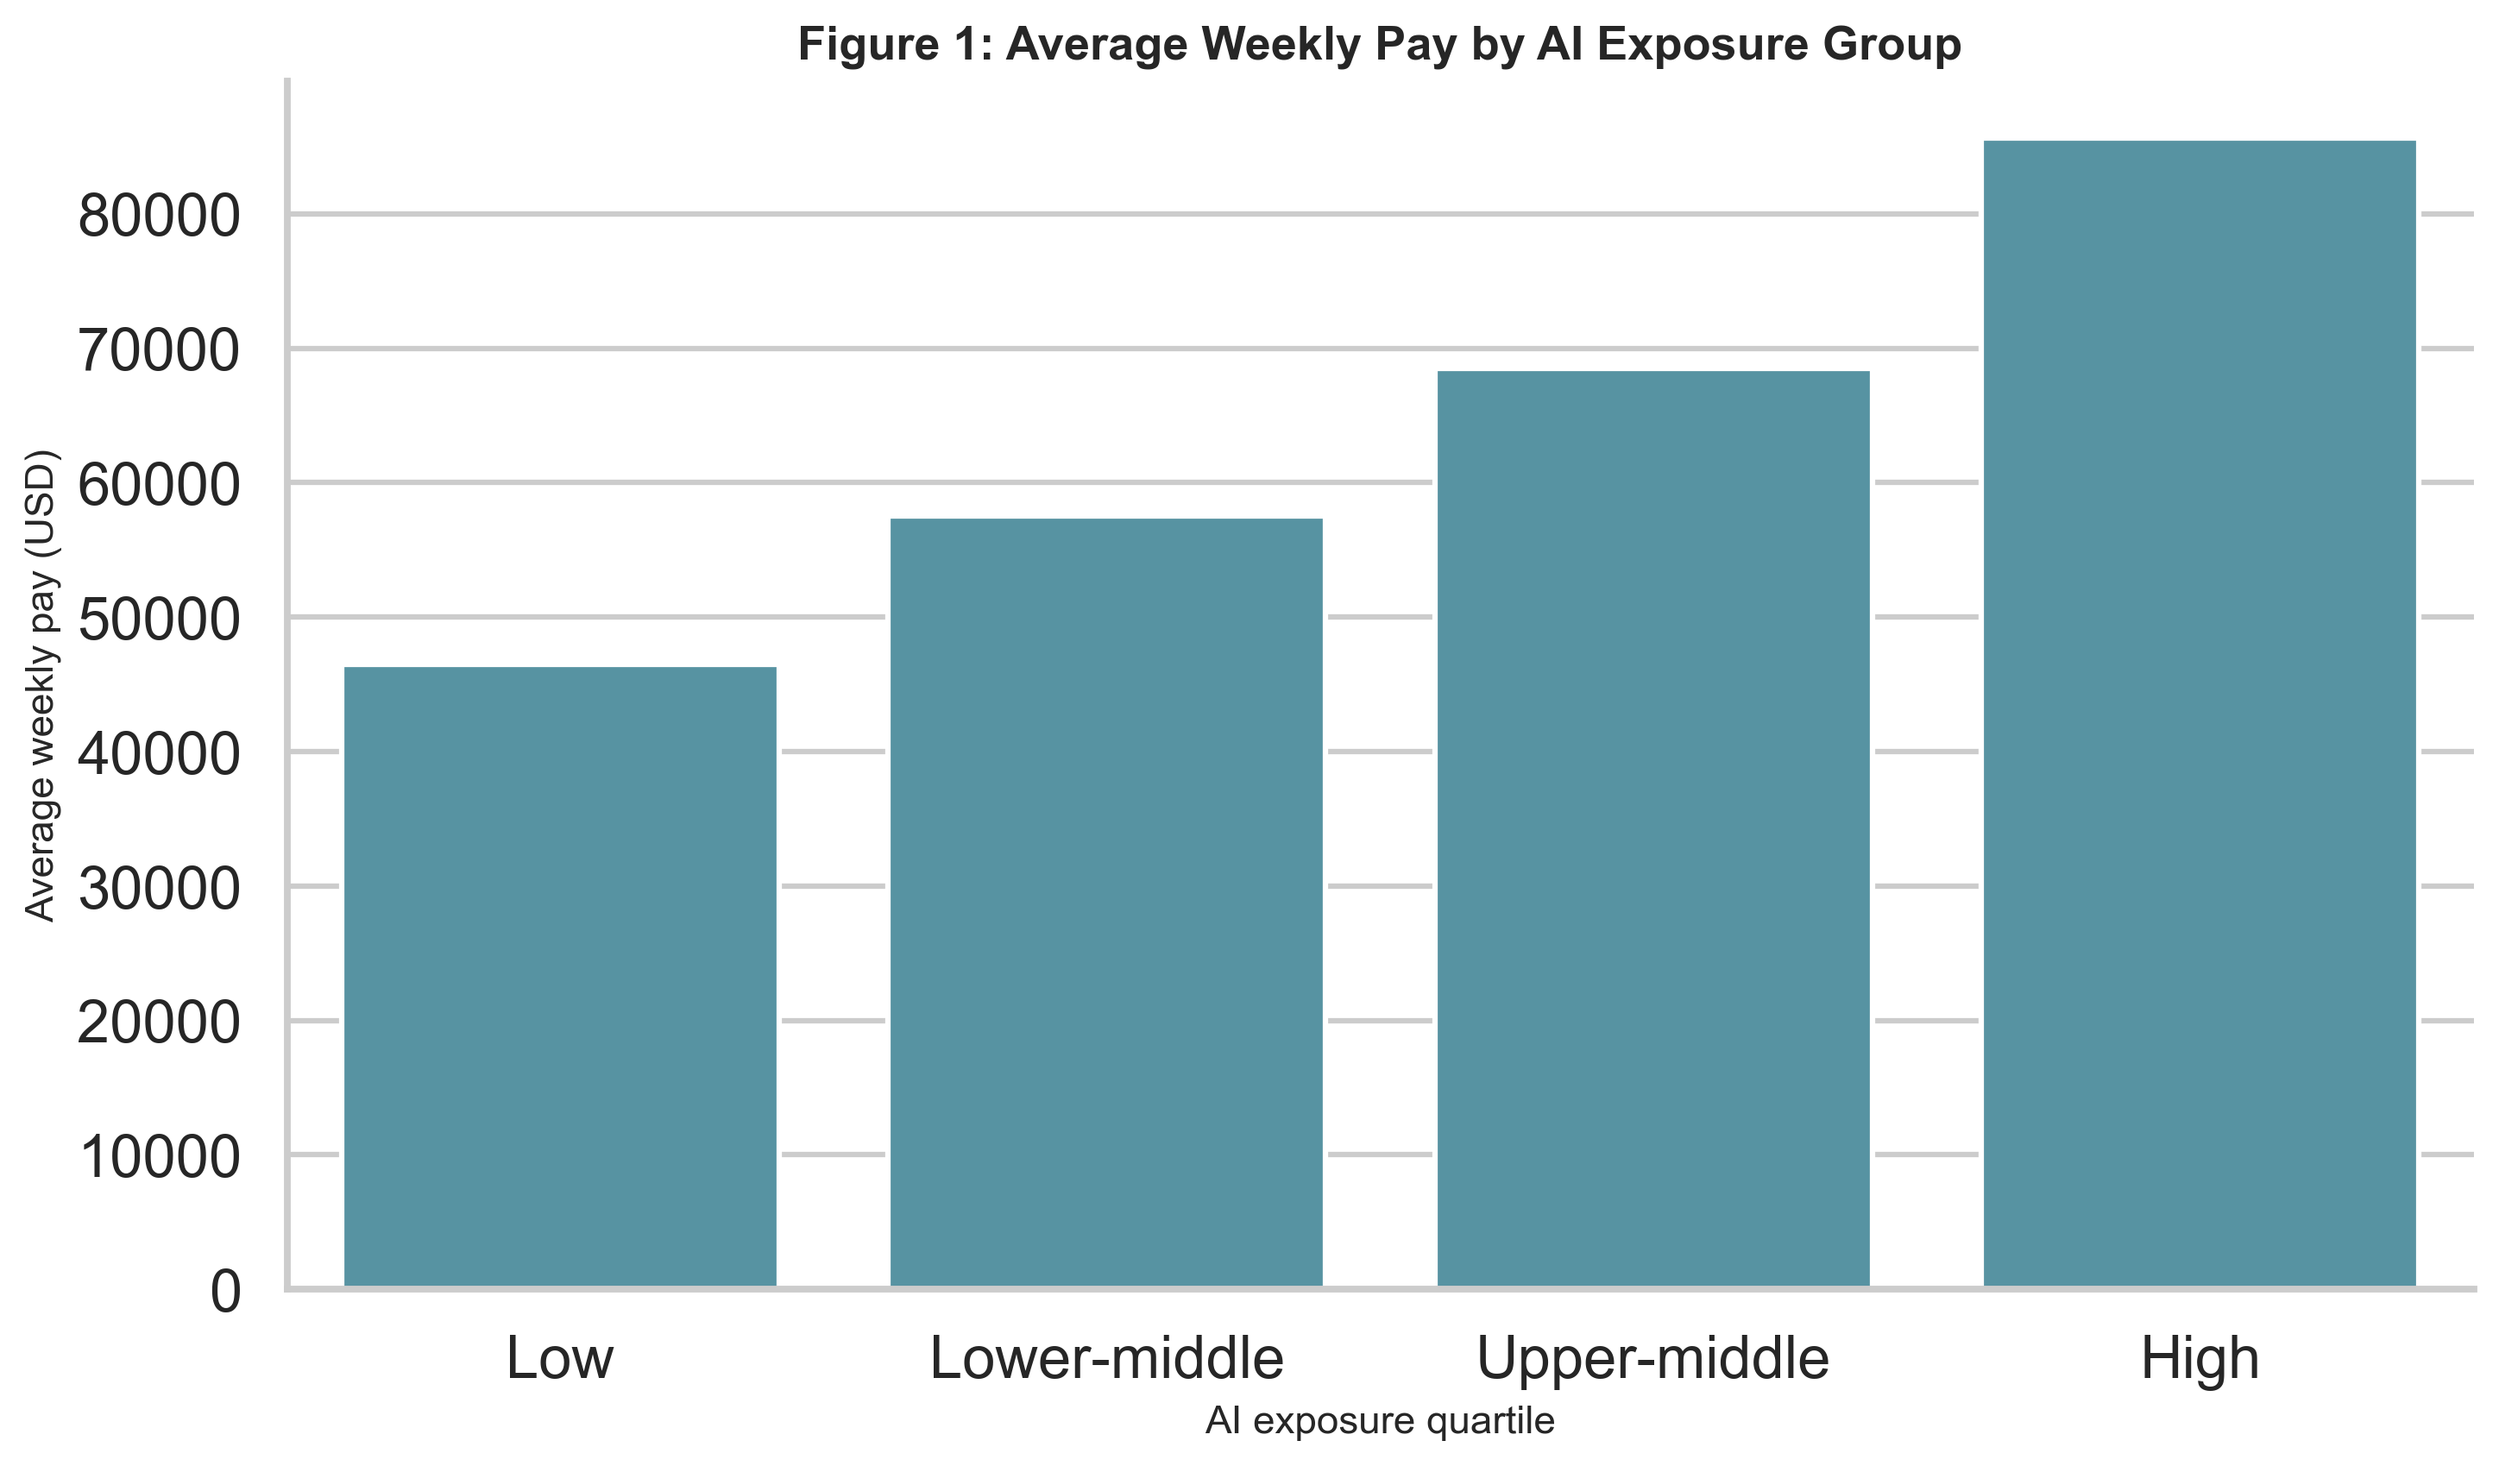
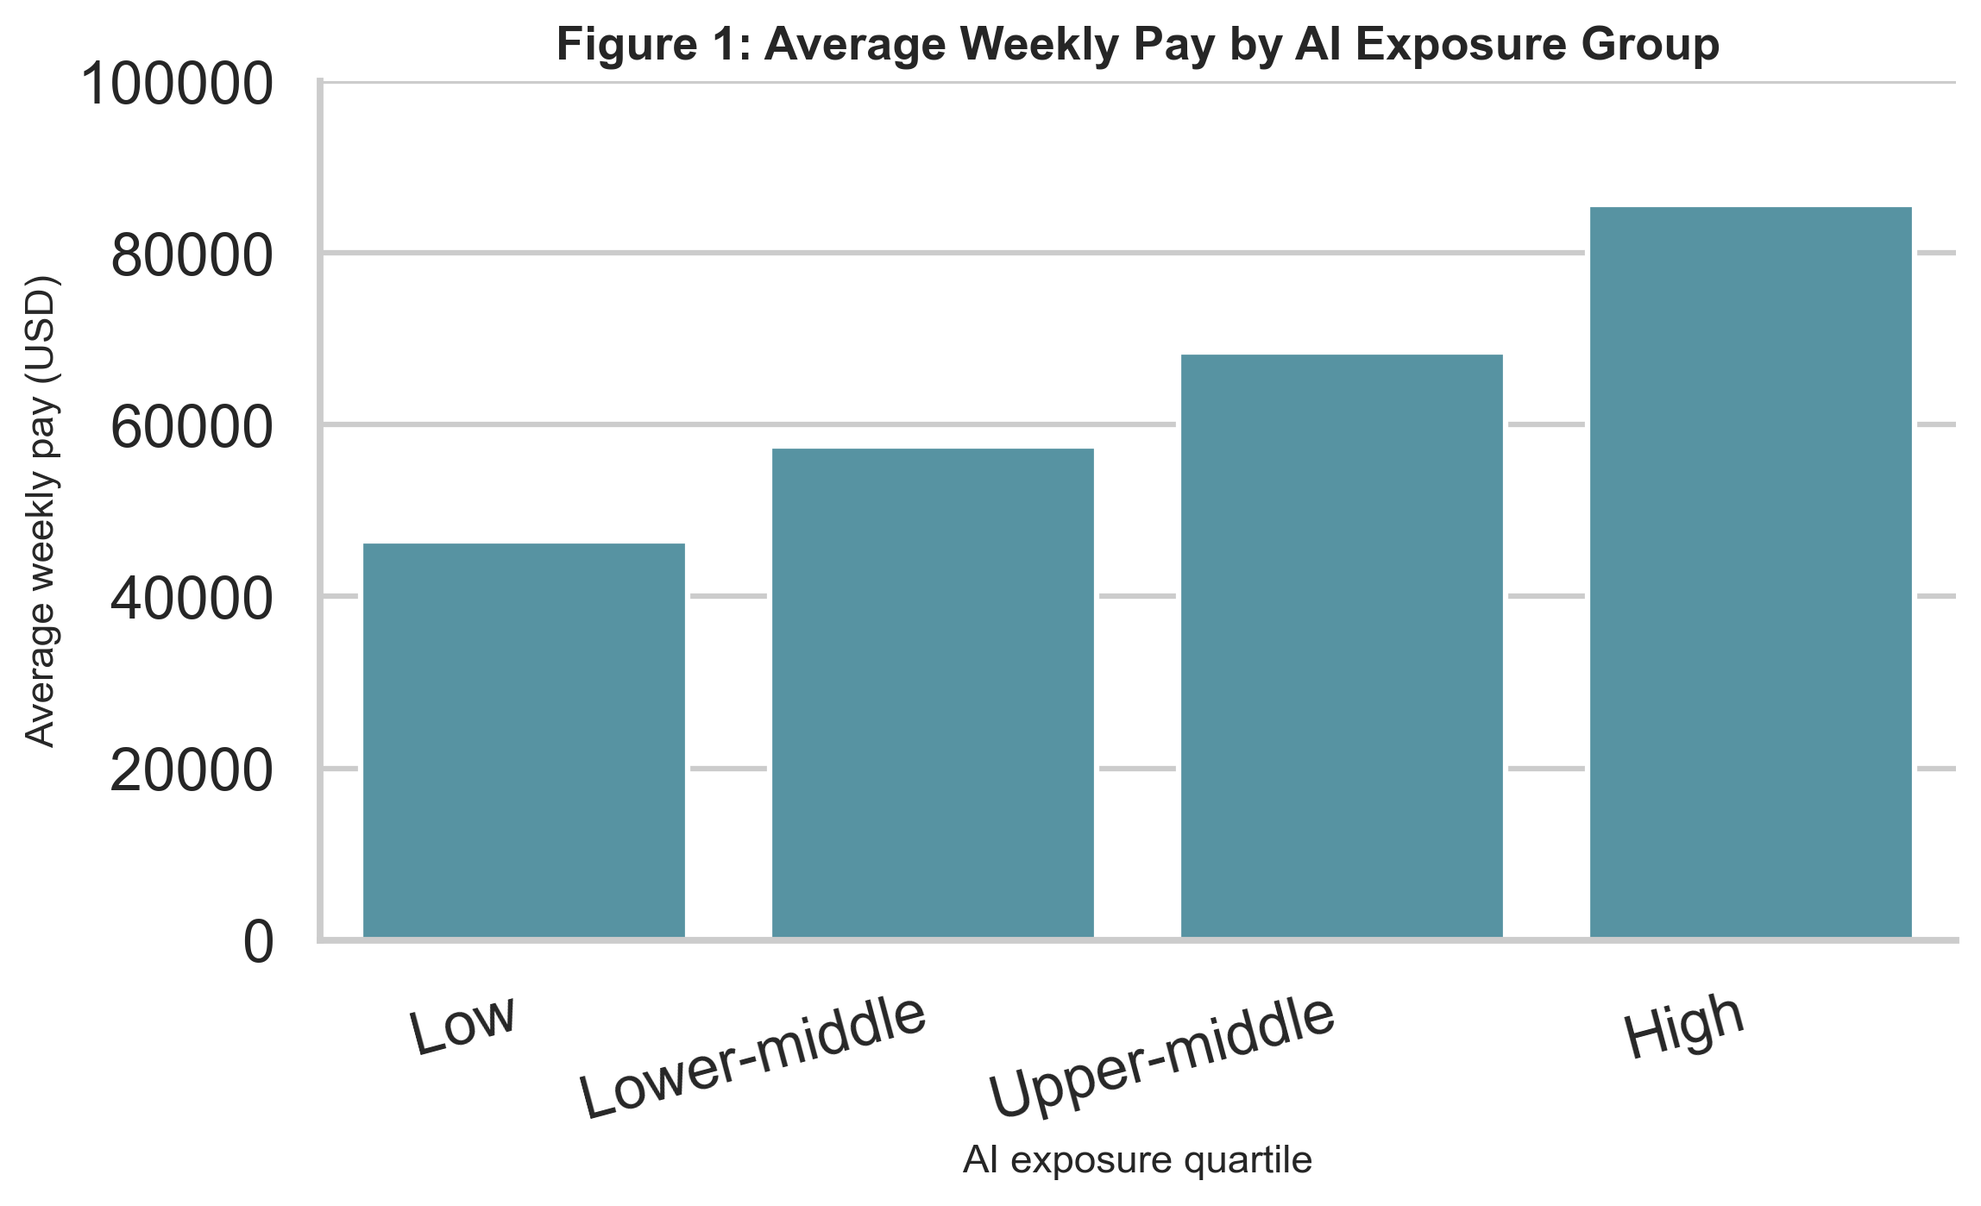
Update figure 07 and figures script

diff --git a/src/12_figures.py b/src/12_figures.py
@@ -44,17 +44,22 @@ def main():
     plt.gca().invert_yaxis()
     save_plot(FIGURES / "02_top10_ai_exposed.png")
 
-    plt.figure(figsize=(8, 5))
-    plt.scatter(df["ai_exposure"], df["weekly_pay"], color=PRIMARY, alpha=0.5, edgecolors="white", linewidths=0.3)
-    z = np.polyfit(df["ai_exposure"].dropna(), df["weekly_pay"].dropna(), 1)
-    p = np.poly1d(z)
-    x_line = np.linspace(df["ai_exposure"].min(), df["ai_exposure"].max(), 100)
-    plt.plot(x_line, p(x_line), color=ACCENT, linewidth=2, label="Trend")
-    plt.legend()
-    plt.title("AI Exposure and Weekly Pay", fontsize=13, fontweight="bold")
-    plt.xlabel("AI Exposure", fontsize=11)
-    plt.ylabel("Weekly Pay (USD)", fontsize=11)
-    save_plot(FIGURES / "03_exposure_vs_pay.png")
+    clean = df[["ai_exposure", "weekly_pay"]].dropna()
+z = np.polyfit(clean["ai_exposure"], clean["weekly_pay"], 1)
+p = np.poly1d(z)
+x_line = np.linspace(clean["ai_exposure"].min(), clean["ai_exposure"].max(), 100)
+corr = clean["ai_exposure"].corr(clean["weekly_pay"])
+
+plt.figure(figsize=(8, 5))
+plt.scatter(clean["ai_exposure"], clean["weekly_pay"], color=PRIMARY, alpha=0.5, edgecolors="white", linewidths=0.3)
+plt.plot(x_line, p(x_line), color=ACCENT, linewidth=2, label="Trend")
+plt.annotate(f"r = {corr:.2f}", xy=(0.05, 0.92), xycoords="axes fraction", fontsize=10)
+plt.legend()
+plt.title("AI Exposure and Weekly Pay", fontsize=13, fontweight="bold")
+plt.xlabel("AI Exposure", fontsize=11)
+plt.ylabel("Weekly Pay (USD)", fontsize=11)
+save_plot(FIGURES / "03_exposure_vs_pay.png")
+
 
     plt.figure(figsize=(8, 5))
     plt.scatter(df["ai_exposure"], df["employment_growth"], color=SECONDARY, alpha=0.5, edgecolors="white", linewidths=0.3)
@@ -79,7 +84,6 @@ def main():
     plt.gca().invert_yaxis()
     save_plot(FIGURES / "06_ml_feature_importance.png")
 
-    print(f"Saved figures to {FIGURES}")
 
 if __name__ == "__main__":
     main()
